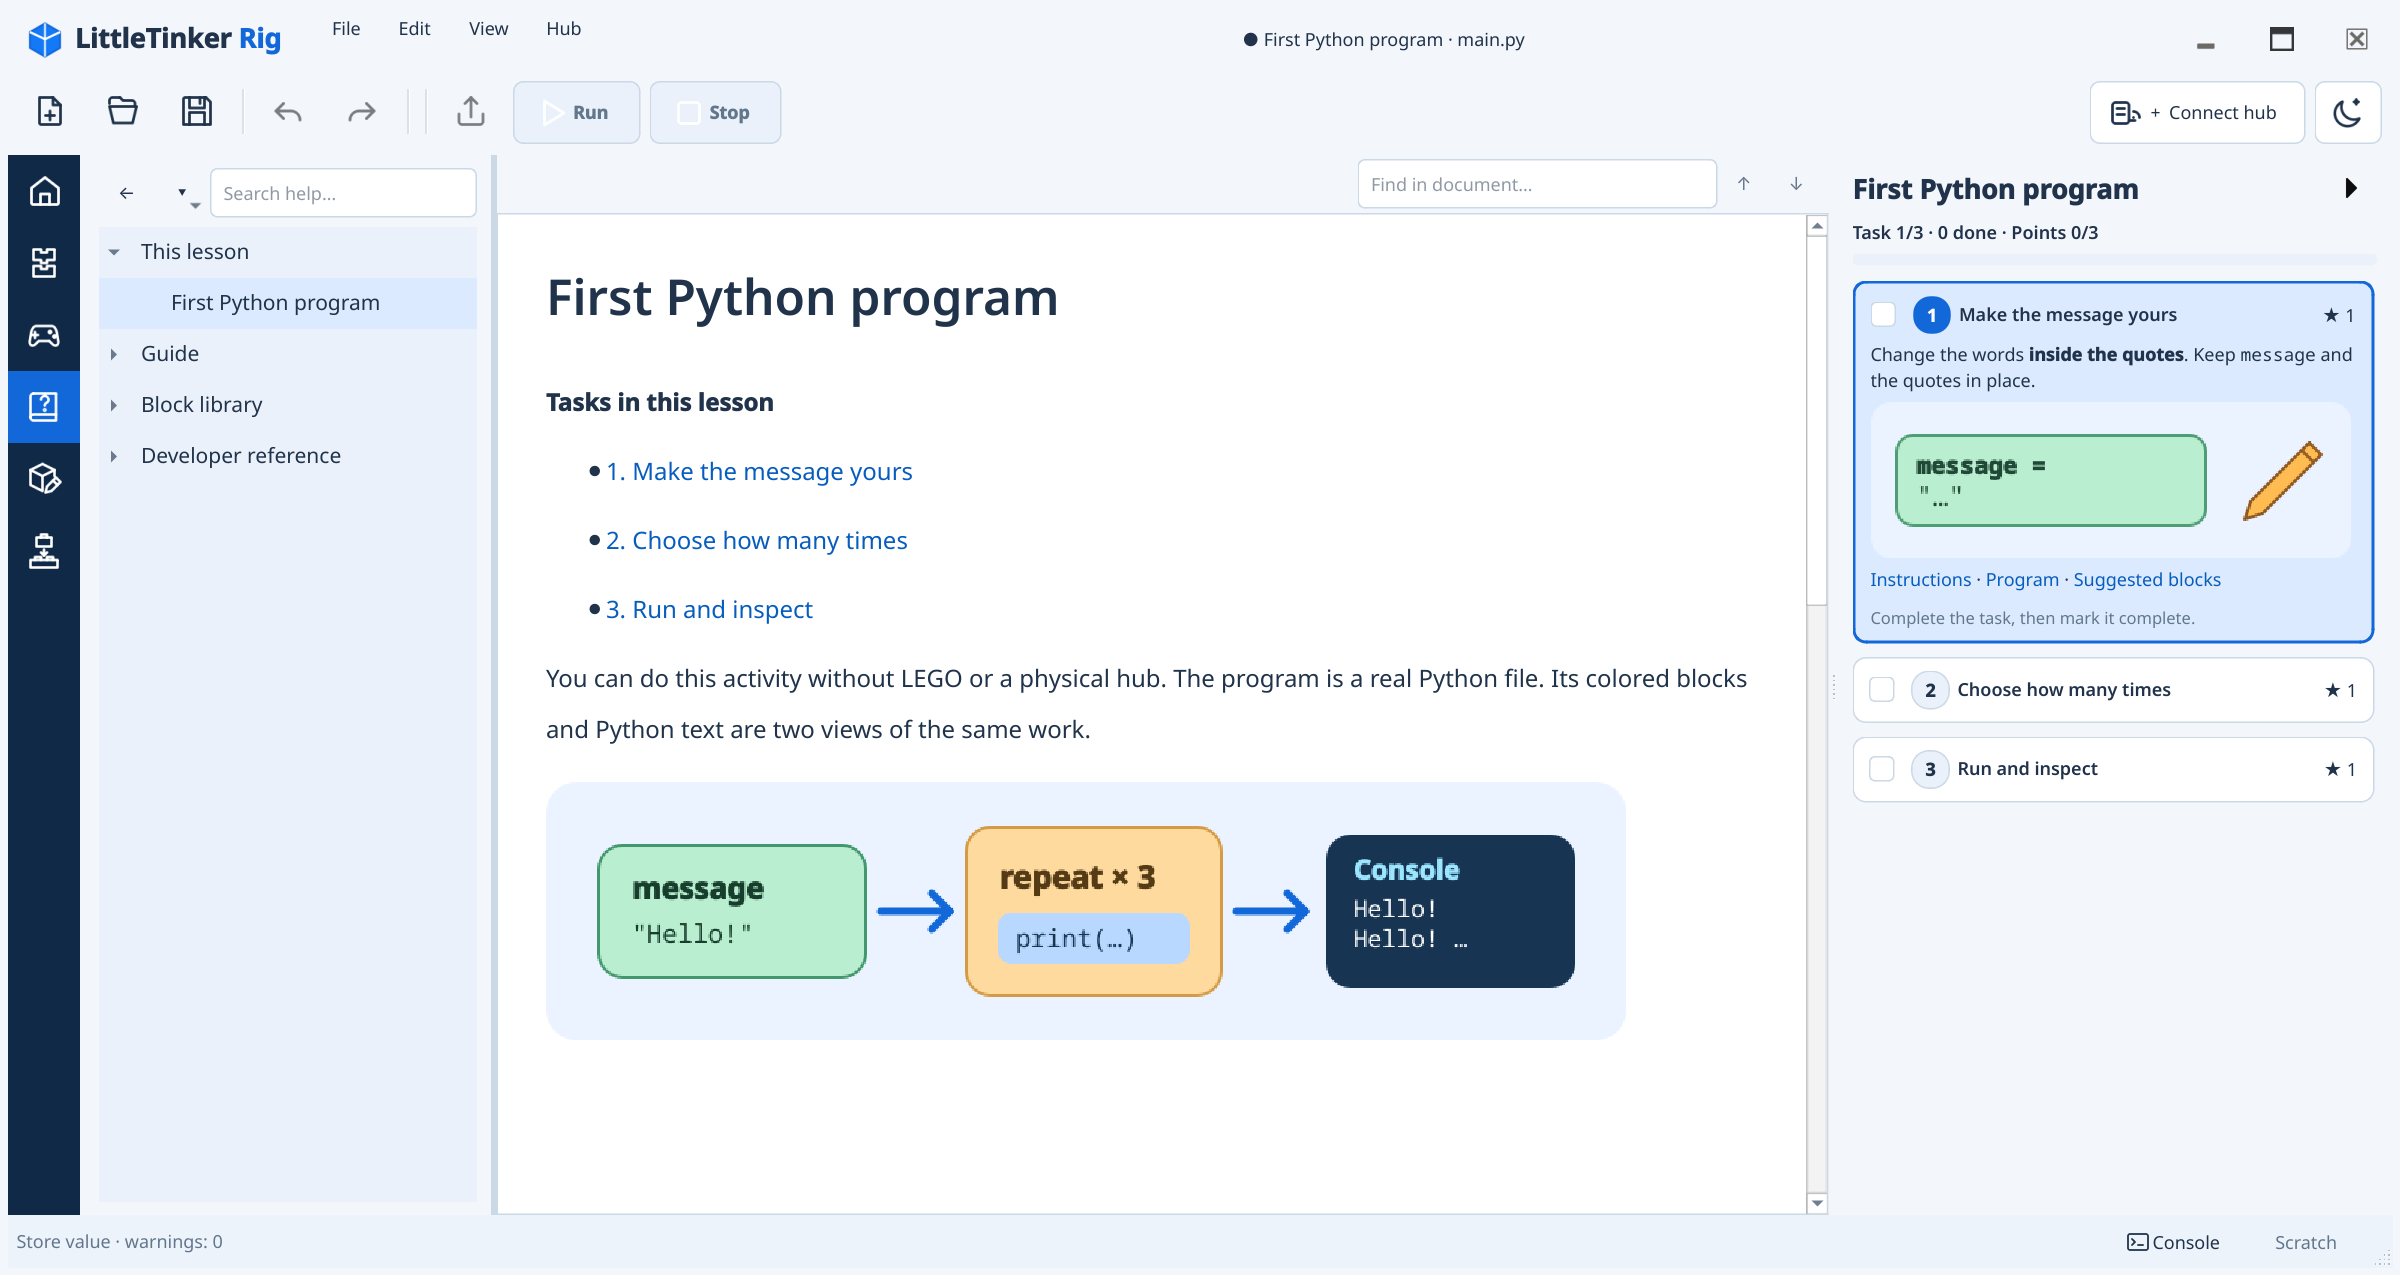
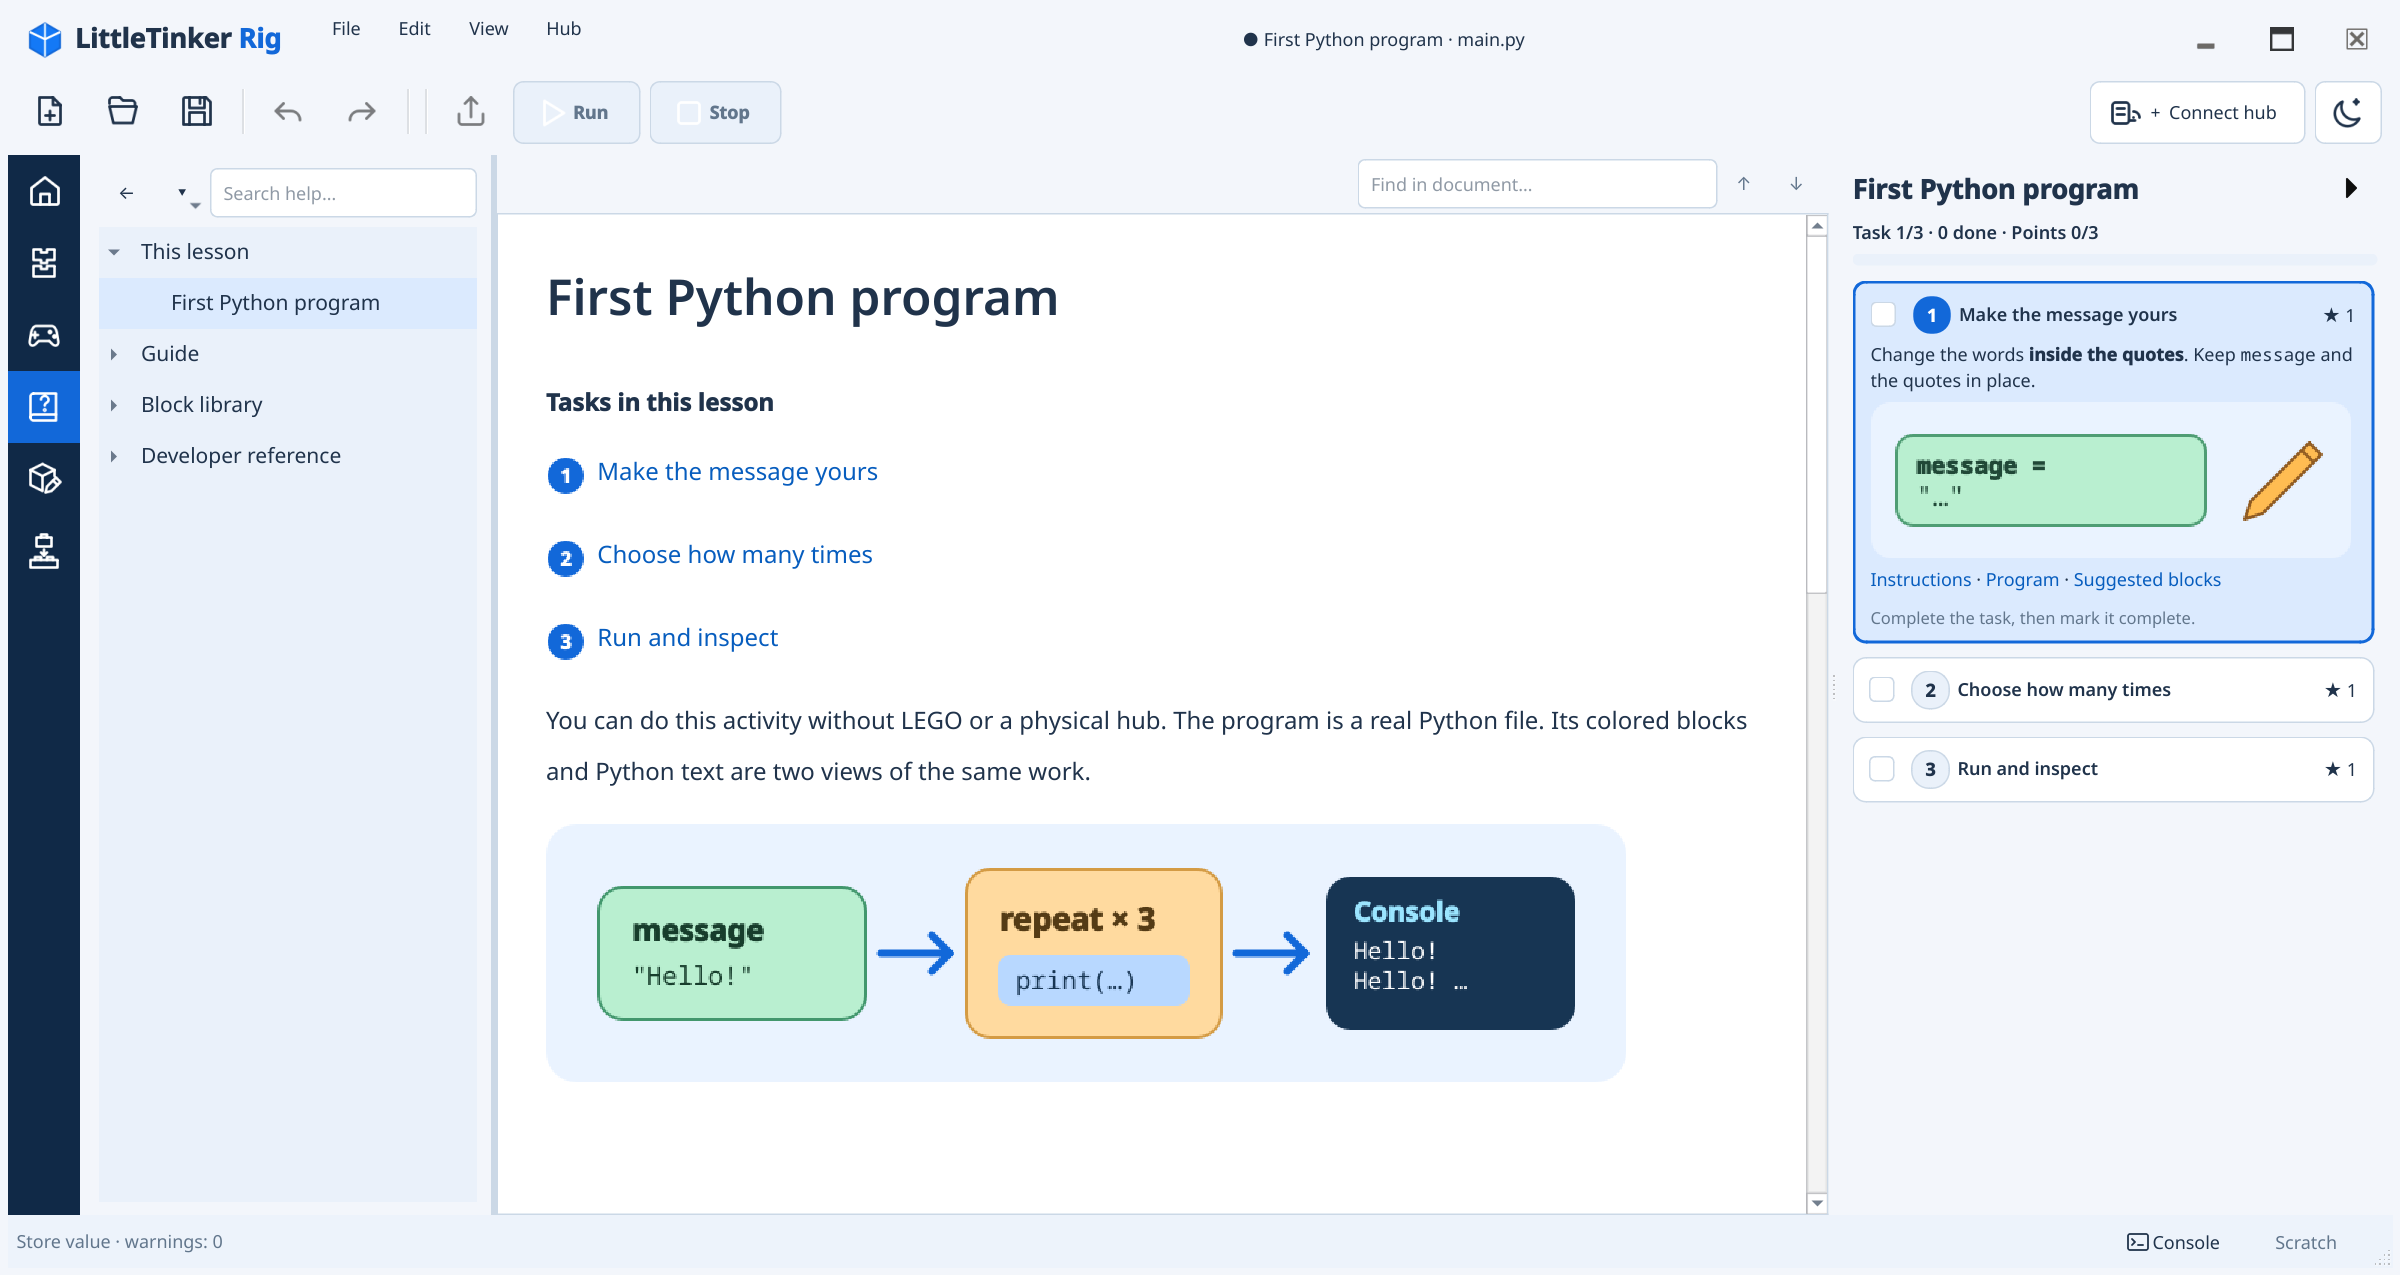
Match lesson index badges to task cards

Changed region(s): [[0.25, 0.6424, 0.6562, 0.8259], [0.2188, 0.3671, 0.7188, 0.6118]]

diff --git a/little_tinker_rig/qt/help.py b/little_tinker_rig/qt/help.py
@@ -142,6 +142,49 @@ class HelpBrowser(QTextBrowser):
         painter.end()
         return image
 
+    def lesson_number_badge(self, number, href=None):
+        document = self.document()
+        url = QUrl(f"lesson-number:{number}")
+        document.addResource(
+            document.ResourceType.ImageResource,
+            url,
+            self.lesson_number_image(number),
+        )
+        badge = QTextImageFormat()
+        badge.setName(url.toString())
+        badge.setWidth(26)
+        badge.setHeight(26)
+        badge.setVerticalAlignment(
+            QTextCharFormat.VerticalAlignment.AlignMiddle
+        )
+        badge.setToolTip(str(number))
+        if href:
+            badge.setAnchor(True)
+            badge.setAnchorHref(href)
+        return badge
+
+    def decorate_lesson_index(self, numbers):
+        document = self.document()
+        seen = set()
+        block = document.begin()
+        while block.isValid() and len(seen) < len(numbers):
+            following = block.next()
+            if block.blockFormat().headingLevel() == 2:
+                break
+            fragment = block.begin()
+            while not fragment.atEnd():
+                href = fragment.fragment().charFormat().anchorHref()
+                anchor = href.removeprefix("#")
+                if href.startswith("#") and anchor in numbers and anchor not in seen:
+                    cursor = QTextCursor(block)
+                    cursor.setPosition(block.position())
+                    cursor.insertImage(self.lesson_number_badge(numbers[anchor], href))
+                    cursor.insertText("  ")
+                    seen.add(anchor)
+                    break
+                fragment += 1
+            block = following
+
     def decorate_lesson_headings(self, numbers):
         document = self.document()
         block = document.begin()
@@ -160,23 +203,9 @@ class HelpBrowser(QTextBrowser):
                     None,
                 )
                 if number is not None:
-                    url = QUrl(f"lesson-number:{number}")
-                    document.addResource(
-                        document.ResourceType.ImageResource,
-                        url,
-                        self.lesson_number_image(number),
-                    )
-                    badge = QTextImageFormat()
-                    badge.setName(url.toString())
-                    badge.setWidth(26)
-                    badge.setHeight(26)
-                    badge.setVerticalAlignment(
-                        QTextCharFormat.VerticalAlignment.AlignMiddle
-                    )
-                    badge.setToolTip(str(number))
                     cursor.clearSelection()
                     cursor.setPosition(block.position())
-                    cursor.insertImage(badge)
+                    cursor.insertImage(self.lesson_number_badge(number))
                     cursor.insertText("  ", title_format)
             block = following
 
@@ -522,11 +551,11 @@ class HelpPage(QWidget):
             title = localized(self.lesson.data["title"], language())
             text, name = self.lesson.instructions_document(language())
             tasks = []
-            for index, stage in enumerate(self.lesson.stages, 1):
+            for stage in self.lesson.stages:
                 anchor = self.lesson.instructions_anchor(stage, language())
                 if anchor:
                     stage_title = localized(stage["title"], language())
-                    tasks.append(f"- [{index}. {stage_title}](#{anchor})")
+                    tasks.append(f"[{stage_title}](#{anchor})")
             if tasks:
                 lines = text.splitlines(keepends=True)
                 heading_end = 1 if lines and lines[0].startswith("# ") else 0
@@ -542,7 +571,7 @@ class HelpPage(QWidget):
                 text = (
                     "".join(lines[:heading_end])
                     + contents
-                    + "\n".join(tasks)
+                    + "\n\n".join(tasks)
                     + "\n\n"
                     + "".join(lines[heading_end:])
                 )
@@ -695,6 +724,7 @@ class HelpPage(QWidget):
                         )
                     )
                 }
+                self.browser.decorate_lesson_index(self.browser.lesson_numbers)
                 self.browser.decorate_lesson_headings(self.browser.lesson_numbers)
         if anchor:
             self.browser.scrollToAnchor(anchor)

diff --git a/tests/test_lesson_ui.py b/tests/test_lesson_ui.py
@@ -997,8 +997,22 @@ def test_instruction_heading_numbers_match_task_panel_order(tmp_path, qt_app):
                     for index, stage in enumerate(lesson.stages, 1)
                 }
                 numbered = {}
+                index_badges = {}
                 block = page.browser.document().begin()
                 while block.isValid():
+                    item = block.begin()
+                    while not item.atEnd():
+                        fragment = item.fragment()
+                        fmt = fragment.charFormat()
+                        anchor = fmt.anchorHref().removeprefix("#")
+                        if fmt.isImageFormat() and anchor in expected:
+                            number = expected[anchor]
+                            assert fmt.toImageFormat().name() == (
+                                f"lesson-number:{number}"
+                            )
+                            assert block.textList() is None
+                            index_badges[anchor] = number
+                        item += 1
                     if block.blockFormat().headingLevel() == 2:
                         fragments = []
                         item = block.begin()
@@ -1021,10 +1035,11 @@ def test_instruction_heading_numbers_match_task_panel_order(tmp_path, qt_app):
                             numbered[anchor] = number
                     block = block.next()
                 assert numbered == expected
+                assert index_badges == expected
                 index_text = page.pages["lesson/instructions"][0]
                 assert all(
-                    f"](#{anchor})" in index_text and f"[{number}. " in index_text
-                    for anchor, number in expected.items()
+                    f"](#{anchor})" in index_text
+                    for anchor in expected
                 )
                 page.show_lesson_stage(lesson, lesson.stages[-1])
                 assert page.current == (
@@ -1033,6 +1048,46 @@ def test_instruction_heading_numbers_match_task_panel_order(tmp_path, qt_app):
                 )
     finally:
         set_language(original_language)
+        page.deleteLater()
+
+
+def test_lesson_index_badge_opens_its_instruction_section(qt_app):
+    from pathlib import Path
+
+    from PySide6.QtCore import Qt
+    from PySide6.QtGui import QTextCursor
+    from PySide6.QtTest import QTest
+
+    from little_tinker_rig.qt.help import HelpPage
+
+    lesson = Lesson.load(Path("lessons/first_python"))
+    page = HelpPage([])
+    page.resize(900, 650)
+    page.show()
+    try:
+        page.show_lesson_home(lesson)
+        browser = page.browser
+        block = browser.document().begin()
+        badge_position = None
+        while block.isValid() and badge_position is None:
+            item = block.begin()
+            while not item.atEnd():
+                fragment = item.fragment()
+                fmt = fragment.charFormat()
+                if fmt.isImageFormat() and fmt.anchorHref() == "#message":
+                    badge_position = fragment.position()
+                    break
+                item += 1
+            block = block.next()
+        assert badge_position is not None
+        cursor = QTextCursor(browser.document())
+        cursor.setPosition(badge_position)
+        point = browser.cursorRect(cursor).center()
+        assert browser.viewport().rect().contains(point)
+        QTest.mouseClick(browser.viewport(), Qt.MouseButton.LeftButton, pos=point)
+        assert page.current == "lesson/instructions#message"
+    finally:
+        page.close()
         page.deleteLater()
 
 

diff --git a/doc/ru/lessons.md b/doc/ru/lessons.md
@@ -17,7 +17,7 @@
 
 Справа появляется **Панель заданий**. У каждого задания видны номер шага,
 галочка, название и очки. Соответствующие разделы в **Помощи** отмечены синими
-круглыми номерами; в начале инструкции ссылки на разделы тоже пронумерованы.
+круглыми номерами; в начале инструкции ссылки на разделы отмечены такими же кружками.
 В уроке «Первая поездка» схемы колёсной базы,
 направления движения и расстояния до препятствия показаны в заданиях и полной
 инструкции. Настоящие детали и порядок их установки смотри в режиме **Сборка**.

diff --git a/doc/en/lessons.md b/doc/en/lessons.md
@@ -16,7 +16,7 @@ attempt opens the selected task's section in that same document.
 
 The right-side **Task panel** shows every task with its step number, checkbox,
 title, and points. The matching sections in **Help** use blue numbered circles,
-and the instruction index includes those numbers. First drive includes diagrams
+and the instruction index uses the same circles as links. First drive includes diagrams
 of the rolling base, travel directions, and obstacle distance in both the task
 cards and full instructions.
 Use **Assembly** for the actual part-by-part model; the diagrams explain the
